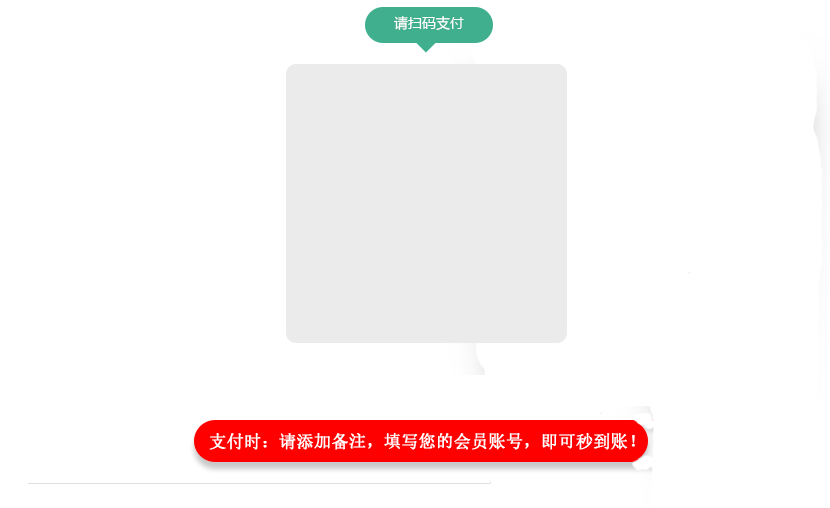
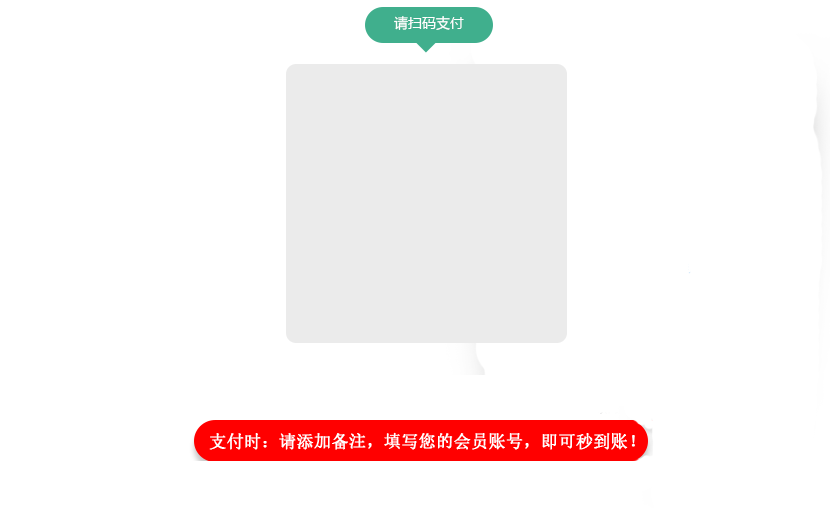
修改图片样式

Changed region(s): [[0.241, 0.8858, 0.753, 0.9449]]

diff --git a/bet365_files/css.css b/bet365_files/css.css
@@ -1,1 +1,42 @@
-@charset "utf-8";.w{font-family:"微软雅黑"}.s{font-family:"宋体"}input{outline:0}button{outline:0}.o{-moz-transition:.8s;-ms-transition:.8s;-webkit-transition:.8s;opacity:.8}.t{-moz-transition:.8s;-ms-transition:.8s;-webkit-transition:.8s}.p{-moz-transition:.8s;-ms-transition:.8s;-webkit-transition:.8s;opacity:1}.f{-moz-transform:scale(1.02);-ms-transform:scale(1.02);-webkit-transform:scale(1.02);transform:scale(1.02)}button{outline:0}input{outline:0}select{outline:0}input::-webkit-input-placeholder{color:#282828!important}.q{-moz-transition:.8s;-ms-transition:.8s;-webkit-transition:.8s;opacity:1}.q:hover{-moz-transition:.8s;-ms-transition:.8s;-webkit-transition:.8s;opacity:.8}body.b1{background:url(../images/pc_2.jpg) center top}body.b2{background:url(../images/index_5.jpg) center top}.header{height:80px;text-align:center;width:100%;border-bottom:solid 1px #e7e7e7;background-color:#fff;line-height:80px}.header .logo{clear:both}.headers{height:80px;text-align:center;width:100%;line-height:80px}.headers .logo{padding-top:7px;clear:both}.t1{margin-left:120px;margin-bottom:8px}.cont_z{width:800px;margin:0 auto;text-align:left}.content_c{background:#fff;width:910px;height:670px;margin:0 auto;position:relative;border-radius:10px;border:solid 1px #e3e3e3;margin-top:15px;text-align:center}.content_c .c1{background-color:#ebebeb;width:380px;height:158px;border-radius:8px;float:left}.content_c .c1 p{line-height:22px;font-size:16px;color:#333;width:330px;margin:0 auto;text-align:left}.content_c .c1 font{color:#f0c}.content_c .c1 img{padding-top:22px;margin-bottom:8px}.content_c img{padding-top:30px}.content_c .x1{position:absolute;top:98px;left:98px}.content_c .Time_btn{background:#00a9f2;width:212px;height:50px;margin:0 auto;border-radius:25px;border:none;font-size:16px;text-align:center;color:#fff;cursor:pointer;margin-left:290px;margin-top:22px}.form{float:left;width:100%}.form li{height:52px;border:solid 1px #eaeaea;border-top:none}.form li span{display:block;width:120px;height:40px;line-height:40px;text-align:center;font-size:14px;color:#fff;font-family:"微软雅黑";background-color:#40af8d;margin-top:7px;margin-left:7px;float:left}.form li input{border:solid 1px #40af8d;line-height:38px;width:595px;float:left;margin-top:7px;text-indent:15px;color:#333;font-size:14px}.form li font{display:block;width:70px;height:40px;line-height:40px;text-align:center;font-size:14px;color:#fff;font-family:"微软雅黑";background-color:#40af8d;margin-top:7px;float:left}.btn{width:315px;height:60px;border-radius:30px;background-color:#00a9f2;text-align:center;line-height:60px;font-size:16px;color:#fff;margin:0 auto;margin-top:20px}.btn a{color:#fff}.wx{font-family:"微软雅黑";font-size:14px;color:#333;text-align:center;line-height:26px;margin-top:20px}.wx a{color:#0749c1}.footers{text-align:center;line-height:90px;color:#333;height:100px}.text{color:#f0c;font-size:16px;font-family:"微软雅黑";width:100%;height:60px;line-height:62px;text-align:center;float:left;font-weight:700}
+@charset "utf-8";
+.w{font-family:"微软雅黑"}
+.s{font-family:"宋体"}
+input{outline:0}
+button{outline:0}
+.o{-moz-transition:.8s;-ms-transition:.8s;-webkit-transition:.8s;opacity:.8}
+.t{-moz-transition:.8s;-ms-transition:.8s;-webkit-transition:.8s}
+.p{-moz-transition:.8s;-ms-transition:.8s;-webkit-transition:.8s;opacity:1}
+.f{-moz-transform:scale(1.02);-ms-transform:scale(1.02);-webkit-transform:scale(1.02);transform:scale(1.02)
+}button{outline:0}
+input{outline:0}
+select{outline:0}
+input::-webkit-input-placeholder{color:#282828!important}
+.q{-moz-transition:.8s;-ms-transition:.8s;-webkit-transition:.8s;opacity:1}
+.q:hover{-moz-transition:.8s;-ms-transition:.8s;-webkit-transition:.8s;opacity:.8}
+body.b1{background:url(../images/pc_2.jpg) center top}
+body.b2{background:url(../images/index_5.jpg) center top}
+.header{height:80px;text-align:center;width:100%;border-bottom:solid 1px #e7e7e7;background-color:#fff;line-height:80px}
+.header .logo{clear:both}
+.headers{height:80px;text-align:center;width:100%;line-height:80px}
+.headers .logo{padding-top:7px;clear:both}
+.t1{margin-left:120px;margin-bottom:8px}
+.cont_z{width:800px;margin:0 auto;text-align:left}
+.content_c{background:#fff;width:910px;height:670px;margin:0 auto;position:relative;border-radius:10px;border:solid 1px #e3e3e3;margin-top:15px;text-align:center}
+.content_c .c1{background-color:#ebebeb;width:380px;height:158px;border-radius:8px;float:left}
+.content_c .c1 p{line-height:22px;font-size:16px;color:#333;width:330px;margin:0 auto;text-align:left}
+.content_c .c1 font{color:#f0c}
+.content_c .c1 img{padding-top:22px;margin-bottom:8px}
+.content_c img{padding-top:30px}
+.content_c .x1{position:absolute;top:90px;left: 350px;}
+.content_c .Time_btn{background:#00a9f2;width:212px;height:50px;margin:0 auto;border-radius:25px;border:none;font-size:16px;text-align:center;color:#fff;cursor:pointer;margin-left:290px;margin-top:22px}
+.form{float:left;width:100%}
+.form li{height:52px;border:solid 1px #eaeaea;border-top:none}
+.form li span{display:block;width:120px;height:40px;line-height:40px;text-align:center;font-size:14px;color:#fff;font-family:"微软雅黑";background-color:#40af8d;margin-top:7px;margin-left:7px;float:left}
+.form li input{border:solid 1px #40af8d;line-height:38px;width:595px;float:left;margin-top:7px;text-indent:15px;color:#333;font-size:14px}
+.form li font{display:block;width:70px;height:40px;line-height:40px;text-align:center;font-size:14px;color:#fff;font-family:"微软雅黑";background-color:#40af8d;margin-top:7px;float:left}
+.btn{width:315px;height:60px;border-radius:30px;background-color:#00a9f2;text-align:center;line-height:60px;font-size:16px;color:#fff;margin:0 auto;margin-top:20px}
+.btn a{color:#fff}
+.wx{font-family:"微软雅黑";font-size:14px;color:#333;text-align:center;line-height:26px;margin-top:20px}
+.wx a{color:#0749c1}
+.footers{text-align:center;line-height:90px;color:#333;height:100px}
+.text{color:#f0c;font-size:16px;font-family:"微软雅黑";width:100%;height:60px;line-height:62px;text-align:center;float:left;font-weight:700}
